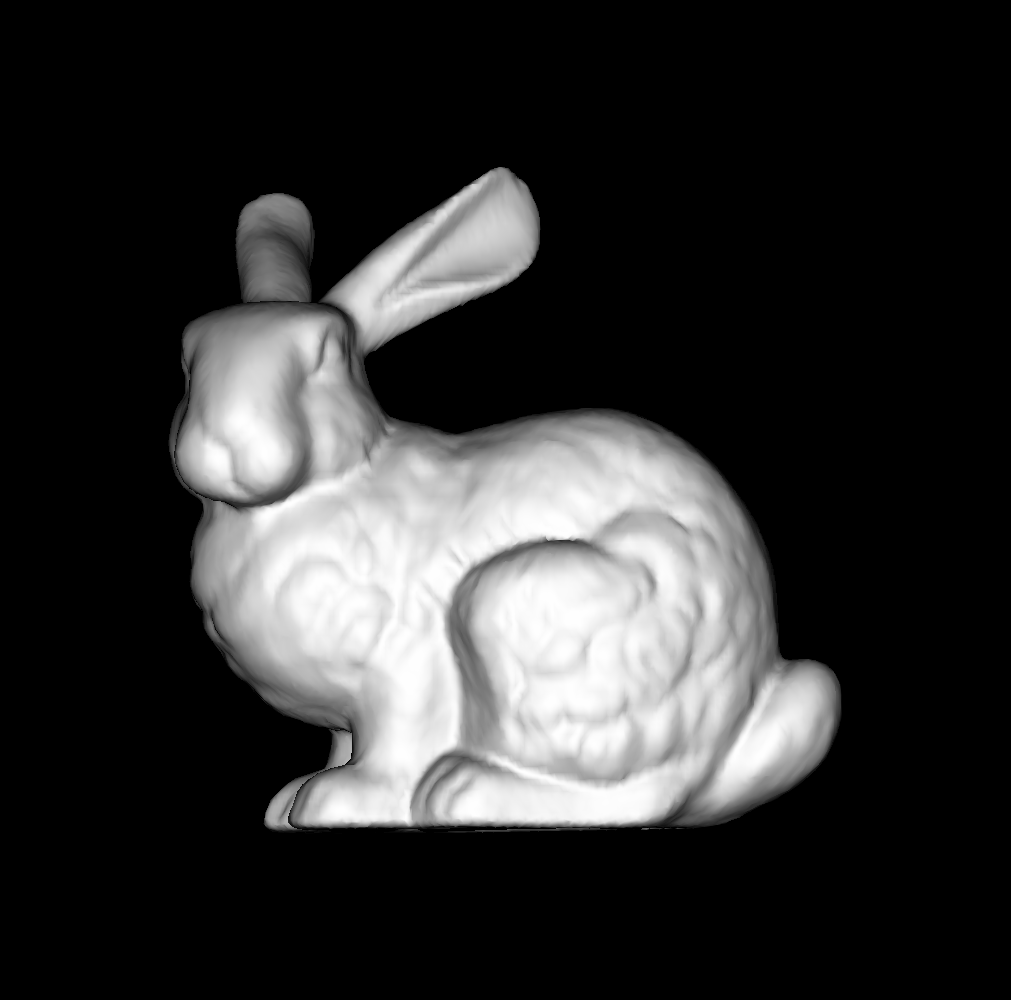
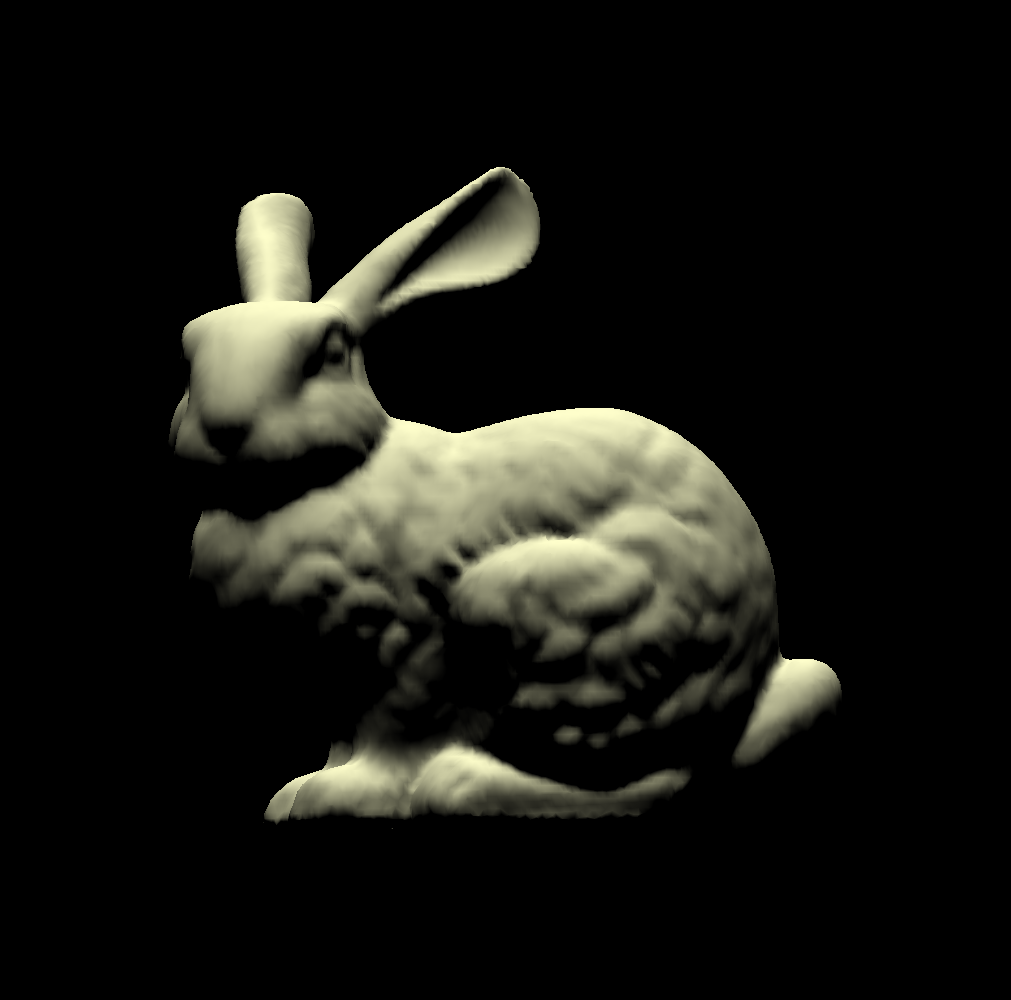
v1

Changed region(s): [[0.1533, 0.155, 0.8586, 0.837]]

diff --git a/render.go b/render.go
@@ -431,7 +431,6 @@ func triangle(
 				I := math.Max(0.0, phongShading(vertexNormals, lightDir, &v))
 				var fill color.RGBA
 				if textureImage == nil {
-					// default color white
 					r, g, b := fillColor.R, fillColor.G, fillColor.B
 					fill = color.RGBA{uint8(float64(r) * I),uint8(float64(g) * I),uint8(float64(b) * I), 255}
 				} else {
@@ -625,29 +624,20 @@ func main() {
 	eye := newVec3f(0, 0, 1)
 	center := newVec3f(0, 0, 0)
 	up := newVec3f(0, 1, 0)
-	lightDir := newVec3f(0, -1, -1)
+	lightDir := newVec3f(0, -5, -1)
 
+	img, width, height := newImage(1000, ratio, true)
 	
-	n := 40
-
-	for i:=0; i<n; i++ {
-		fmt.Println("Rendering ", i)
-		
-		rad := 2 * math.Pi * float64(i) / float64(n)
-		eye = newVec3f(math.Sin(rad), 0, math.Cos(rad))
-		img, width, height := newImage(1000, ratio, true)
-		
-		if textureImage == nil {
-			renderTriangleMesh(
-				&model, img, nil, &color.RGBA{255, 255, 255, 255}, 
-				&lightDir, &eye, &center, &up, width, height, 1.5)
-		} else {
-			renderTriangleMesh(
-				&model, img, &textureImage, nil, 
-				&lightDir, &eye, &center, &up, width, height, 1.5)
-		}
-		// Save
-		f, _ := os.Create(fmt.Sprintf("./results/camera2/%d.png", i))
-		png.Encode(f, imaging.FlipV(img))
+	if textureImage == nil {
+		renderTriangleMesh(
+			&model, img, nil, &color.RGBA{255, 255, 204, 255}, 
+			&lightDir, &eye, &center, &up, width, height, 1.5)
+	} else {
+		renderTriangleMesh(
+			&model, img, &textureImage, nil, 
+			&lightDir, &eye, &center, &up, width, height, 1.5)
 	}
-}	
+	// Save
+	f, _ := os.Create(fmt.Sprintf("./results/test.png"))
+	png.Encode(f, imaging.FlipV(img))
+}
